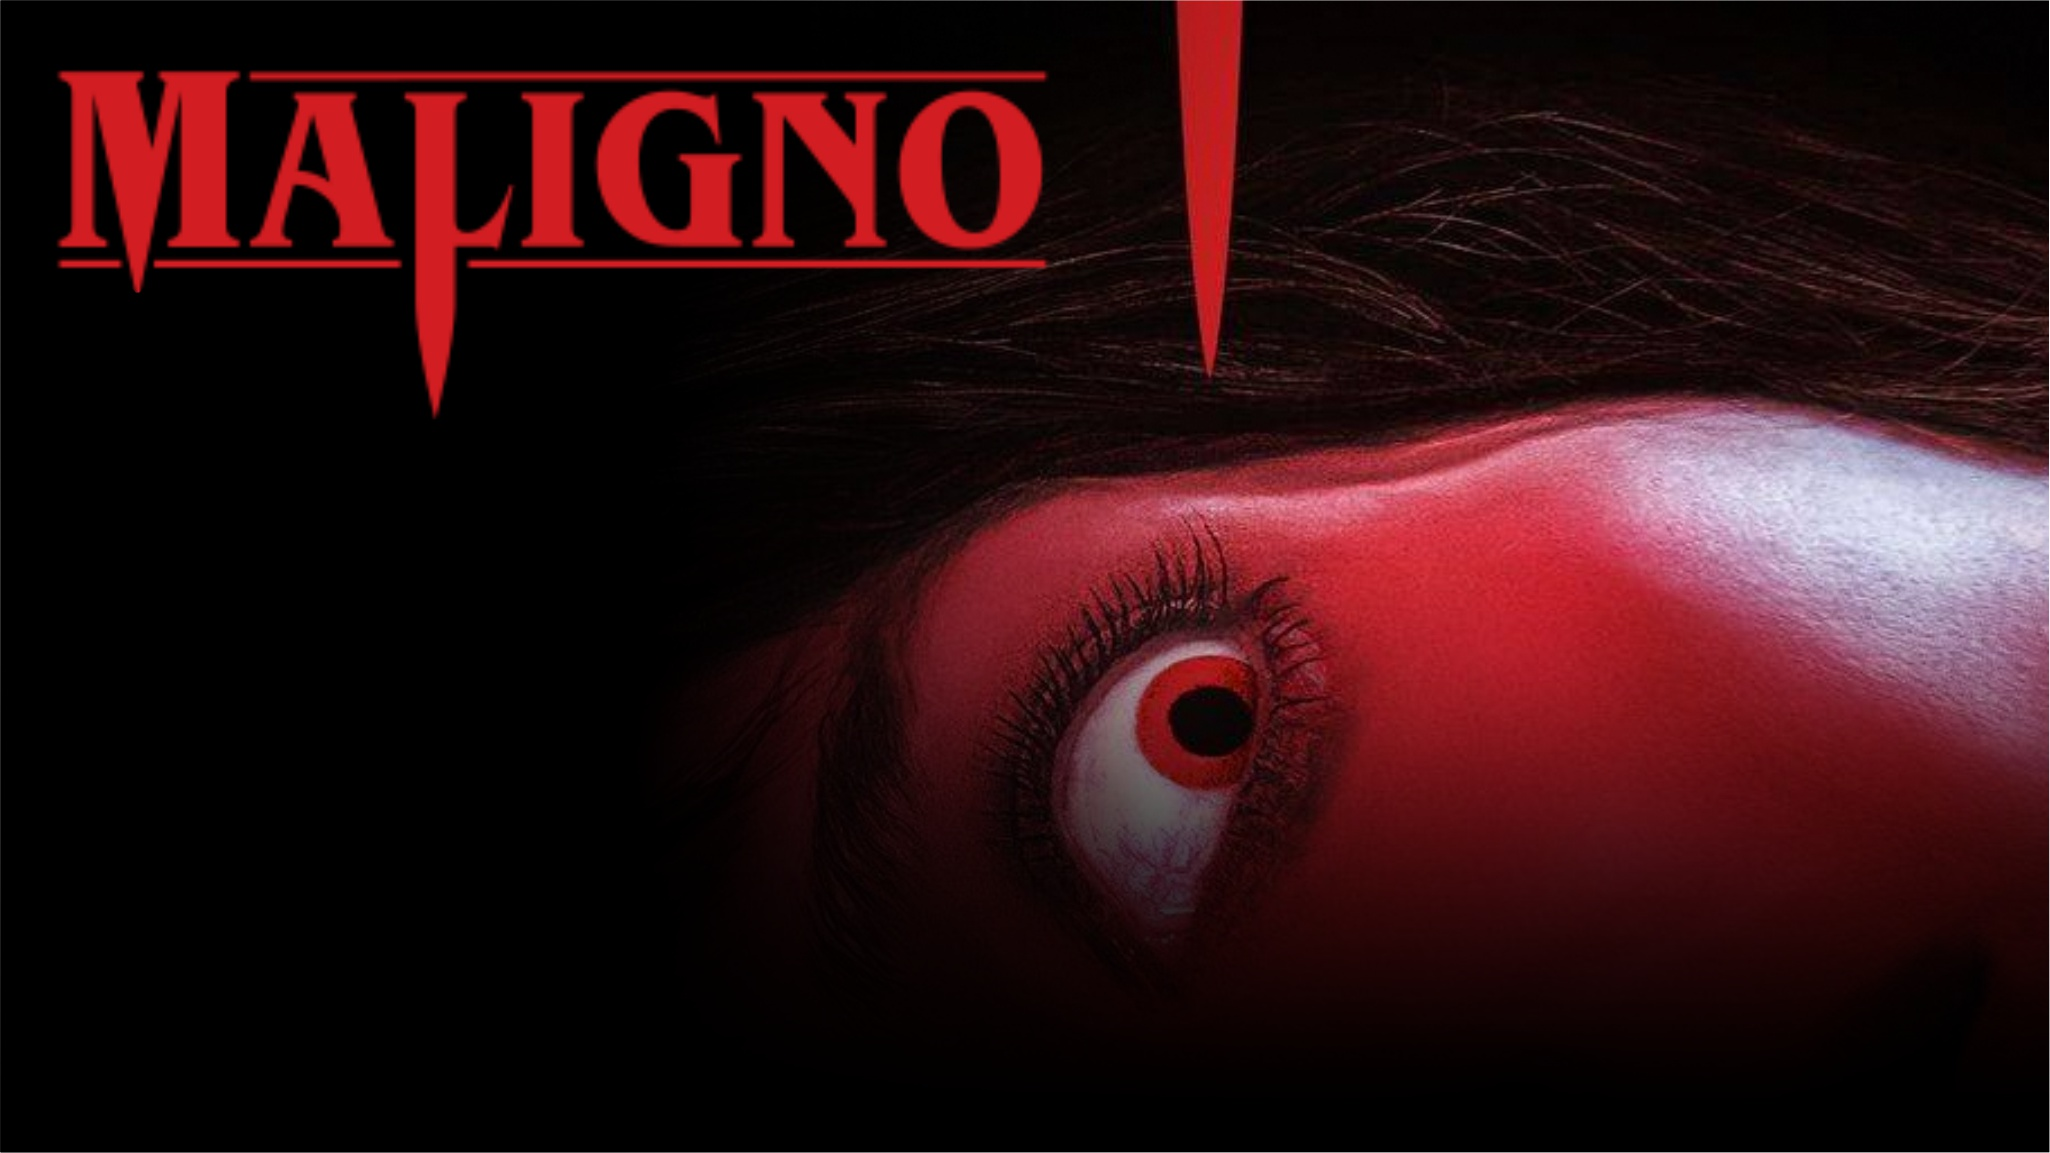
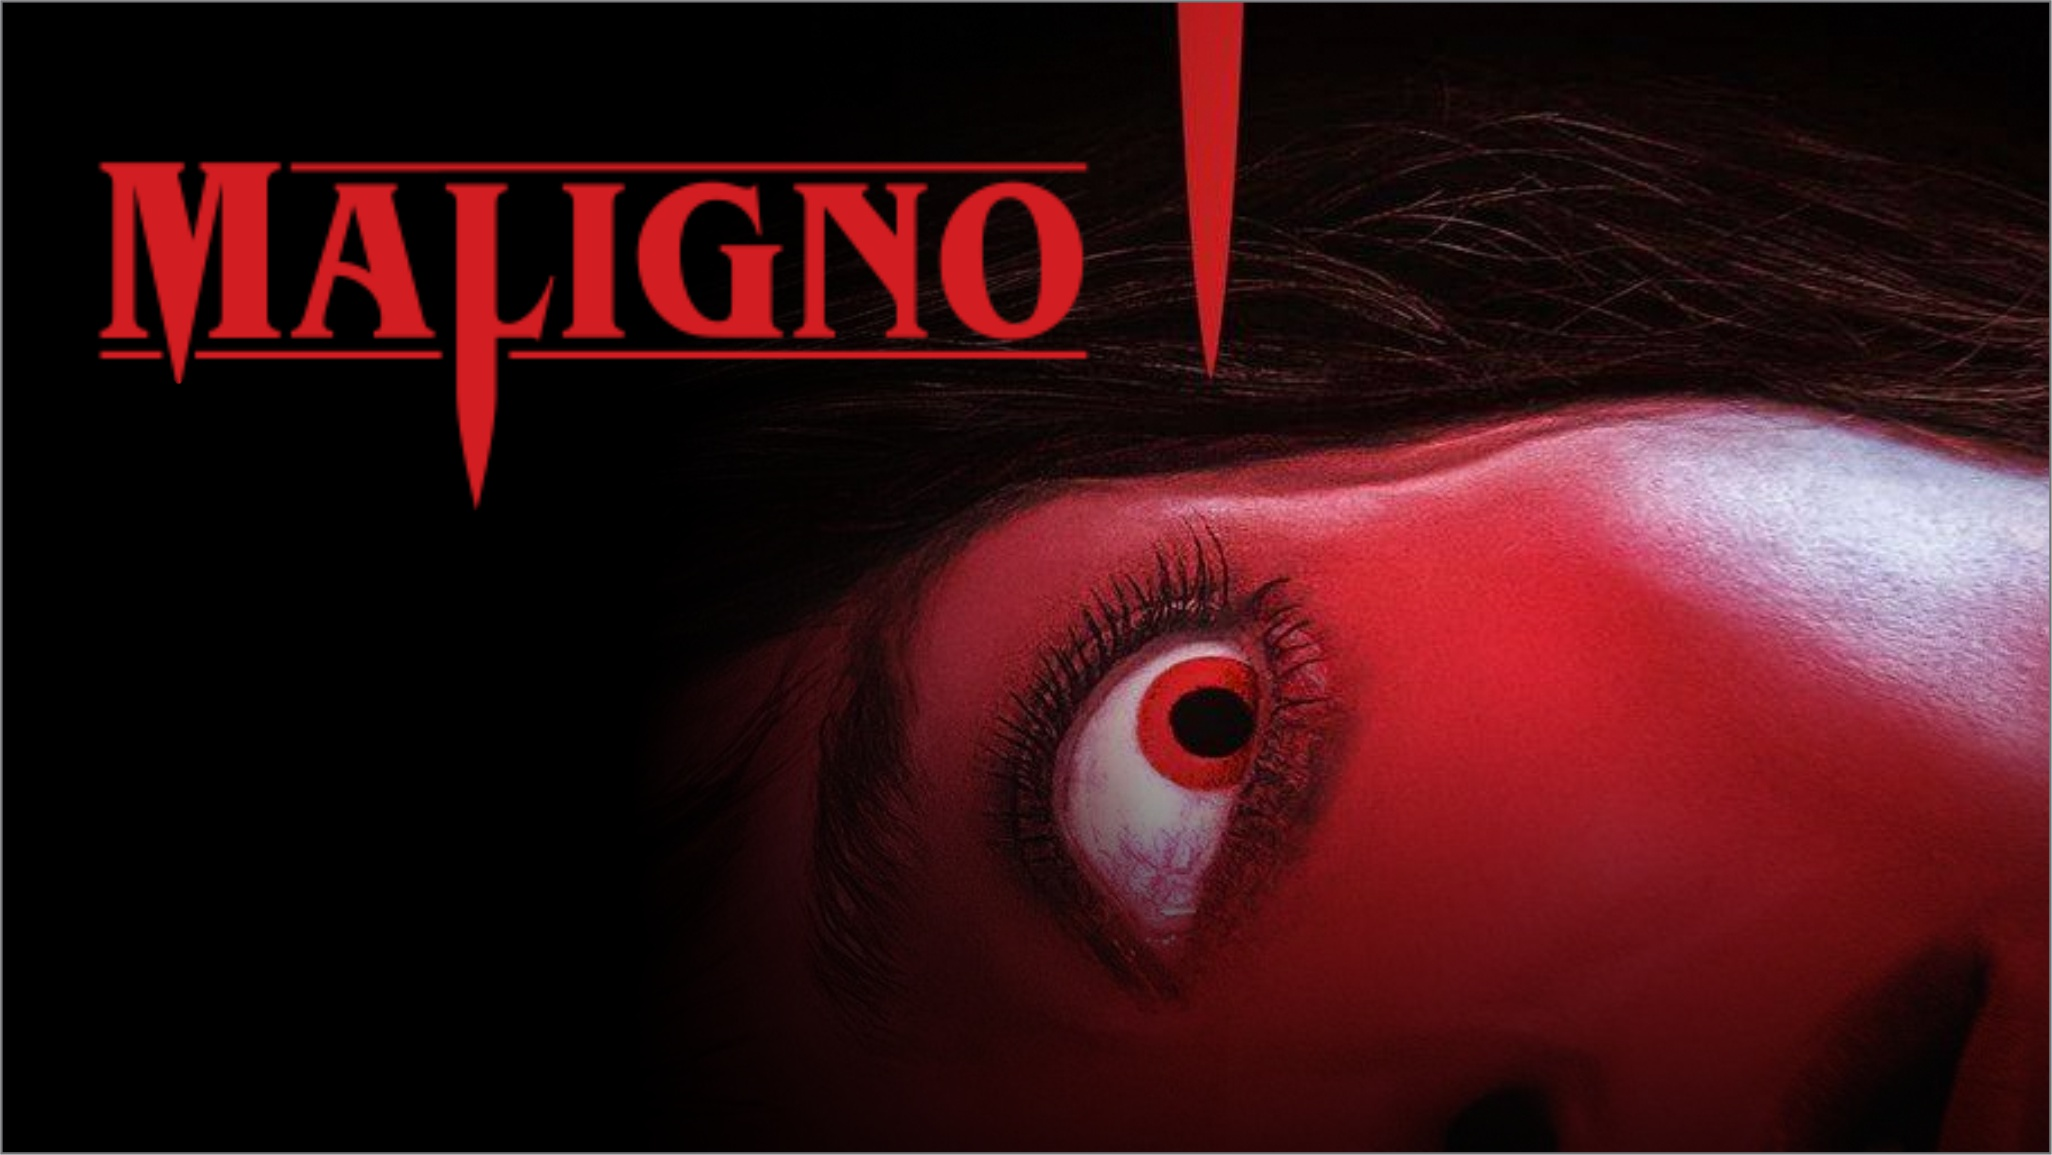
Atualização home

Changed region(s): [[0.0, 0.0, 1.0, 1.0], [0.0312, 0.0624, 0.5307, 0.4371], [0.0, 0.0, 0.0312, 0.0312]]

diff --git a/melhoresescolhas/acao.html b/melhoresescolhas/acao.html
@@ -2,15 +2,64 @@
 <html lang="en">
 
 <head>
-	<meta charset="UTF-8">
-	<meta http-equiv="X-UA-Compatible" content="IE=edge">
-	<meta name="viewport" content="width=device-width, initial-scale=1.0">
-	<title>Projeto Resilia</title>
-	<link rel="stylesheet" href="melhoresescolhas.css">
+  <meta charset="UTF-8">
+		<meta http-equiv="X-UA-Compatible" content="IE=edge">
+		<meta name="viewport" content="width=device-width, initial-scale=1.0">
+		<title>ResiliaFlix</title>
+		<link href="../css/login.css" rel="stylesheet" />
+ 		<link href="../css/header.css" rel="stylesheet" />
+ 	   	<link href="../css/footer.css" rel="stylesheet" />
+		<link 
+		href="https://cdn.jsdelivr.net/npm/bootstrap@5.1.3/dist/css/bootstrap.min.css" 
+		rel="stylesheet" 
+		integrity="sha384-1BmE4kWBq78iYhFldvKuhfTAU6auU8tT94WrHftjDbrCEXSU1oBoqyl2QvZ6jIW3" 
+		crossorigin="anonymous"
+		/>
+		<link rel="stylesheet" href="../social/css/font-awesome.min.css">
+		<link href="../CSS/filmes.css" rel="stylesheet">
+		<!-- <link rel="stylesheet" href="//maxcdn.bootstrapcdn.com/font-awesome/4.3.0/css/font-awesome.min.css"> -->
+    <link rel="stylesheet" href="melhores_escolhas.css">
 </head>
 
 <body>
-	<header>
+  <header>
+    <nav class="navbar navbar-expand-lg navbar-dark bg-dark fixed-top">
+      <div class="container-fluid fixed">
+        <img class=logohead src="../Imagens/imagens_login/logo.png" alt="Logo Resilia Flix">
+        <button class="navbar-toggler" type="button" data-bs-toggle="collapse" data-bs-target="#navbarSupportedContent" aria-controls="navbarSupportedContent" aria-expanded="false" aria-label="Toggle navigation"><span class="navbar-toggler-icon"></span></button>
+        <div class="collapse navbar-collapse" id="navbarSupportedContent">
+        <ul class="navbar-nav me-auto mb-2 mb-lg-0">
+          <li class="nav-item">
+          <a class="nav-link active" aria-current="page" href="#">Home</a>
+          </li>
+          <li class="nav-item">
+          <a class="nav-link" href="cadastro.html">Cadastro</a>
+          </li>
+          <li class="nav-item">
+          <a class="nav-link" href="login.html">Entre</a>
+          </li>
+          <li class="nav-item">
+          <a class="nav-link" href="login.html">Contato</a>
+          </li>
+          <li class="nav-item dropdown">
+          <a class="nav-link dropdown-toggle" href="#" id="navbarDropdown" role="button" data-bs-toggle="dropdown" aria-expanded="false">Melhores escolhas</a>
+          <ul class="dropdown-menu" aria-labelledby="navbarDropdown">
+            <li><a class="dropdown-item" href="#">Ação</a></li>
+            <li><a class="dropdown-item" href="#">Comédia</a></li>
+            <li><a class="dropdown-item" href="#">Terror</a></li>
+            <li><a class="dropdown-item" href="#">Infantil</a></li>
+          </ul>
+          </li>
+        </ul>
+        <form class="d-flex">
+          <input class="form-control me-2" type="search" placeholder="O que deseja assistir?" aria-label="Search"/>
+          <a class="btn-btn-primary btn btn-danger btn-success" type="submit" id="searchFilme" href="/pagina_pesquisa/paginadepesquisa.html" target="_blank">Pesquisar</a>
+        </form>
+      </div>
+    </nav>
+  </header>
+
+	<!-- <header>
 		<a href="#" class="logo"><img src="img/logo.png"></a>
          <ul class= "navigation">
              <li><a href="#">Início</a></li>
@@ -24,40 +73,92 @@
             <i class="fas fa-search"></i>
 
         </div>
-    </header>
+    </header> -->
+
+    <main>
+      <div class="ftotal">
 
     <div class="banner">
-      <img src="../imagens/04. 3 Ação/03. Megatubarão/03.jpg" class="bg">
-      
+      <img src="../imagens/02. 3 Terror/01. Maligno/03.jpg" class="bg">
+    
     <div class="content">
-      <img src="../imagens/04. 3 Ação/03. Megatubarão/logo.png" class="movieTitle">
+      <img src="../imagens/02. 3 Terror/01. Maligno/logo.png" class="movieTitle">
       <h4>
-         <span>2018</span>
+         <span>2020</span>
          <span> <i>12+</i></span>
-         <span>1h 57 min</span>
+         <span>1h 55 min</span>
          <span>Ação</span>
       
       </h4>
+      
       <p>
-        Na fossa mais profunda do Oceano Pacífico, a tripulação de um submarino fica presa dentro do local depois de ser atacada por uma criatura pré-histórica que acreditavam estar extinta: um tubarão de mais de 20 metros de comprimento, o Megalodon. Para salvá-los, um oceanógrafo chinês contrata Jonas Taylor, um mergulhador especializado em resgates em água profundas que já encontrou a criatura anteriormente.
+        Para salvar seu pai doente de servir no Exército Imperial, uma jovem destemida se disfarça de homem para lutar contra os invasores do norte da China.
       </p>
 
        <div class="buttons">
           <a href="#"><i class="fa fa-play" aria- hidden='true'></i> Assistir </a>
           <a href="#"><i class="fa fa-plus" aria-hidden='true'></i> Mais informações </a>
        </div>
-    </div>
+      </div>
+  </div>
+
+    <h6 class="titulohome">Filmes de Ação </h6>
+      <div class="image123">
+        <div class="imgContainer">
+            <img class="categ" src="../imagens/02. 3 Terror/01. Maligno/04.jpg" height="160" width="284"/>
+        </div>
+        <div class="imgContainer">
+            <img class="categ" src="../imagens/02. 3 Terror/01. Maligno/04.jpg" height="160" width="284"/>
+        </div>
+        <div class="imgContainer">
+            <img class="categ" src="../imagens/02. 3 Terror/01. Maligno/04.jpg" height="160" width="284"/>
+        </div>
+      </div>
+
+      <h6 class="titulohomea">Filmes de Ação </h6>
+      <div class="image123">
+        <div class="imgContainer">
+            <img class="categ" src="../imagens/02. 3 Terror/01. Maligno/04.jpg" height="160" width="284"/>
+        </div>
+        <div class="imgContainer">
+            <img class="categ" src="../imagens/02. 3 Terror/01. Maligno/04.jpg" height="160" width="284"/>
+        </div>
+        <div class="imgContainer">
+            <img class="categ" src="../imagens/02. 3 Terror/01. Maligno/04.jpg" height="160" width="284"/>
+        </div>
+      </div>
+
+      <h6 class="titulohome">Filmes de Ação </h6>
+      <div class="image123">
+        <div class="imgContainer">
+            <img class="categ" src="../imagens/02. 3 Terror/01. Maligno/04.jpg" height="160" width="284"/>
+        </div>
+        <div class="imgContainer">
+            <img class="categ" src="../imagens/02. 3 Terror/01. Maligno/04.jpg" height="160" width="284"/>
+        </div>
+        <div class="imgContainer">
+            <img class="categ" src="../imagens/02. 3 Terror/01. Maligno/04.jpg" height="160" width="284"/>
+        </div>
+      </div>
+
+      <h6 class="titulohome">Filmes de Ação </h6>
+      <div class="image123">
+        <div class="imgContainer">
+            <img class="categ" src="../imagens/02. 3 Terror/01. Maligno/04.jpg" height="160" width="284"/>
+        </div>
+        <div class="imgContainer">
+            <img class="categ" src="../imagens/02. 3 Terror/01. Maligno/04.jpg" height="160" width="284"/>
+        </div>
+        <div class="imgContainer">
+            <img class="categ" src="../imagens/02. 3 Terror/01. Maligno/04.jpg" height="160" width="284"/>
+        </div>
+      </div>
+
     <!-- <a class="play" onclick="toggleVideo"><img src="img/play.png">Assista ao trailer</a>
     <div class="trailer">
       <img src="img/close.png" class="close" onclick="toggleVideo"> -->
-    
-      <h4>
-		<span>2020</span>
-		<span> <i>12+</i></span>
-		<span>1h 55 min</span>
-		<span>Ação</span>
-	 
-	 </h4>
+   
+      
 
       
           
@@ -67,6 +168,42 @@
     
     
     </div>
+  </main>
+
+  <footer>
+    <div class="footer-top bg-dark">
+      <div class="container-fluid row">          
+      <div class="text-secondary col-md-4 bg-dark footer-about wow fadeInUp">
+        <img class="logo-footer" src="Imagens/imagens_login/logo.png" alt="logo-footer" />
+        <p>Trabalho de conclusão de módulo para validar aprendizado em HTML, CSS E JavaScript.</p>
+        <p><a href="#">Conheça o Grupo</a></p>
+      </div>
+      <div class="text-secondary col-md-4 bg-dark offset-md-1 footer-contact wow fadeInDown">
+        <h3>Contato</h3>
+        <p><i class="fa fa-map-marker"></i> Av. Mockup 110, São Paulo - SP</p>
+        <p><i class="fa fa-phone"></i> (11) 0800-08800</p>
+        <p><i class="fa fa-envelope"></i><a href="mailto:grupo5@resiliaflix.com.br">grupo5@resiliaflix.com.br</a></p>
+        <p><i class="fa fa-skype"></i> Grupo5Resilia</p>
+      </div>
+      <div class="col-md-3 bg-dark footer-social wow fadeInUp text-secondary">
+        <h3>Nossas redes</h3>
+          <p>
+          <a href="https://github.com"><i class="fa fa-github" aria-hidden="true"></i></a>
+          <a href="https://www.facebook.com/resilia.br"><i class="fa fa-facebook" aria-hidden="true"></i></a> 
+          <a href="https://twitter.com"><i class="fa fa-twitter" aria-hidden="true"></i></a>              
+          <a href="https://www.instagram.com/resilia.br/"><i class="fa fa-instagram" aria-hidden="true"></i></a> 
+          <a href="http://pinterest.com"><i class="fa fa-pinterest" aria-hidden="true"></i></a>
+          </p>
+      </div>            
+      </div>
+    </div>
+    <div class="footer-bottom bg-muted">
+      <div class="container row footer-copyright">
+        <p>&copy;<a href="contato.html">Projeto realizado pelo GRUPO 5</a></p>                  
+      </div>        
+    </div>
+    </footer>
+
   </body>
         <script src=/script.js></script>
 </html>

diff --git a/CSS/filmes.css b/CSS/filmes.css
@@ -119,3 +119,38 @@ main{
 .fbotao-trailer:hover{
     background: #BB2D3B;
 }
+
+.imgContainer{
+    float:left;
+  }
+
+
+  .titulohomea{
+    margin-left: 7%;
+    color:blanchedalmond;
+    font-size: 30px;
+    font-family: "BebasNeue";
+    src: url('BebasNeue.OTF');
+    padding-top:10%;
+  }
+
+  .titulohome{
+    margin-left: 7%;
+    color:blanchedalmond;
+    font-size: 30px;
+    font-family: "BebasNeue";
+    src: url('BebasNeue.OTF');
+    padding-top:12%;
+  }
+  
+  
+  .image123{
+    padding-left: 10%;
+    padding-bottom: 150px;
+  }
+  
+  .categ{
+    margin-left: 5%;
+  }
+  
+  

diff --git a/melhoresescolhas/melhores_escolhas.css b/melhoresescolhas/melhores_escolhas.css
@@ -274,6 +274,24 @@ header .Logo img{
 }
 
 
+.titulohome{
+  margin-left: 7%;
+  color:blanchedalmond;
+  font-size: 30px;
+  font-family: "BebasNeue";
+  src: url('BebasNeue.OTF');
+  padding-top:80px;
+}
+
+
+.image123{
+  padding-left: 10%;
+  padding-bottom: 20px;
+}
+
+.categ{
+  margin-left: 5%;
+}
 
 
 

diff --git a/filmes/agente86.html b/filmes/agente86.html
@@ -86,6 +86,7 @@
 				<button class="fbotao-plus">✚</button>
 				
 				<a href="https://www.youtube.com/embed/TR3tVGRoLQY" target="_blank"><button class="fbotao-trailer">Trailer</button></a>
+			
 			</div>
 		</main>
 
